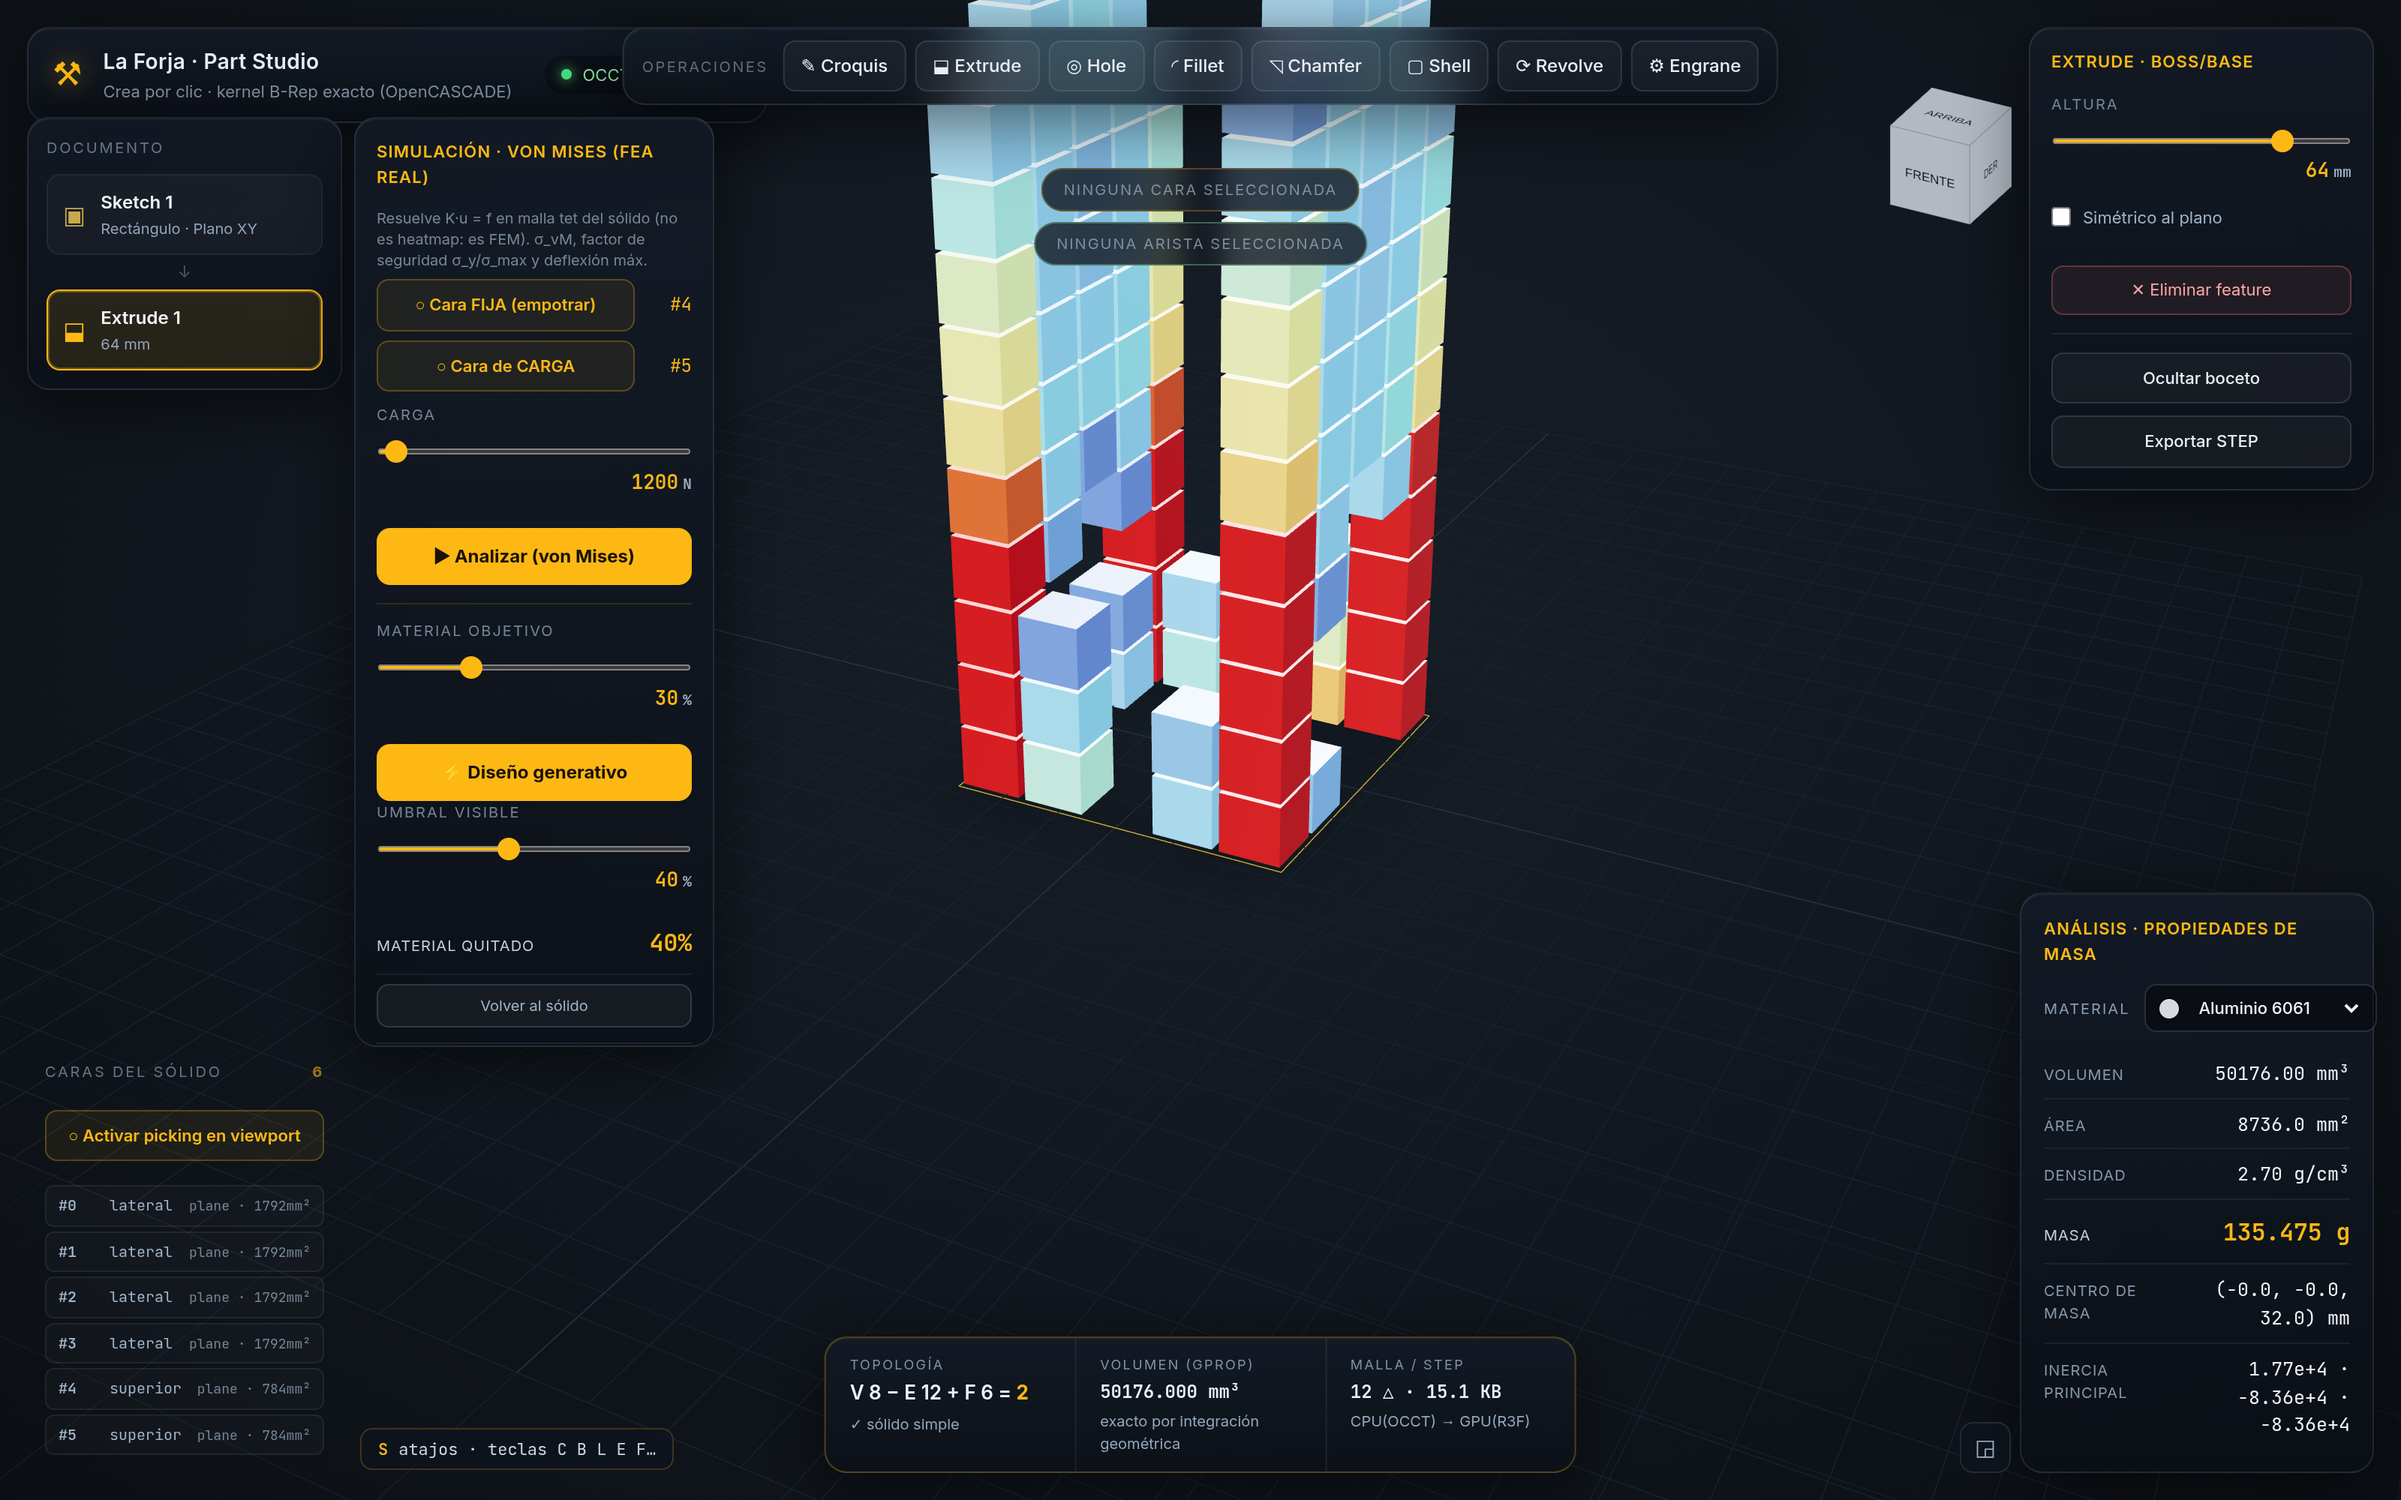
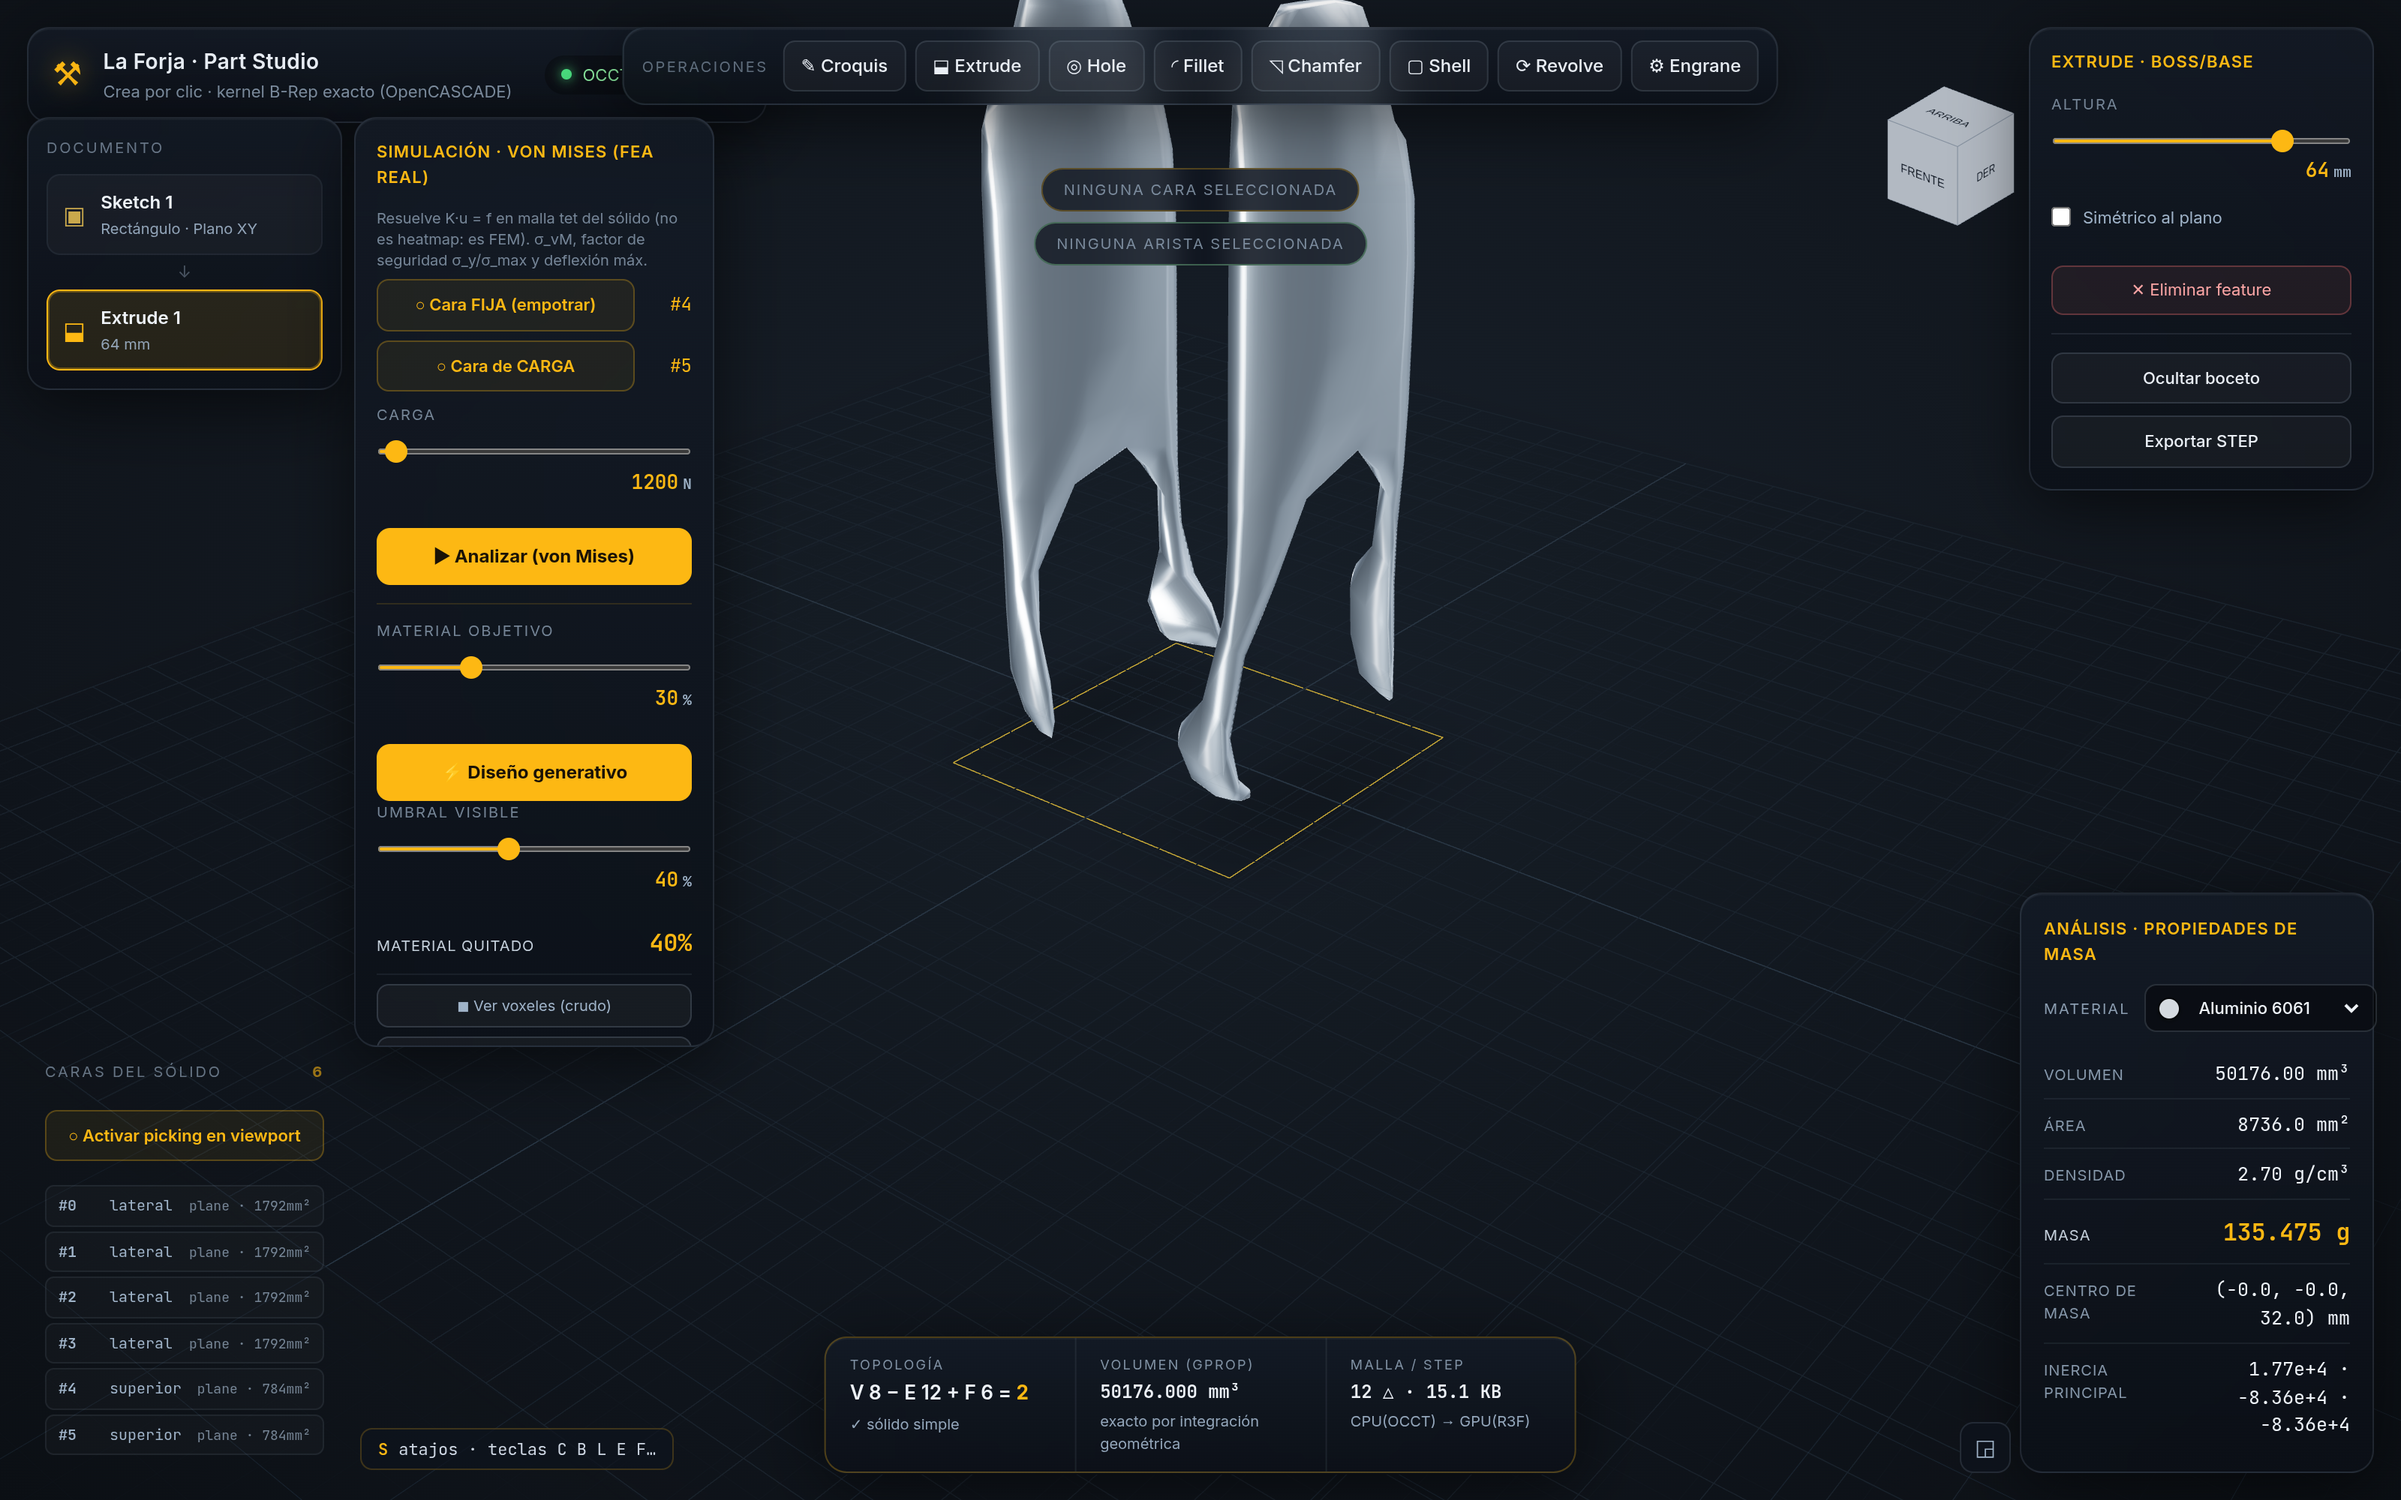
feat(forja): generativo SUAVE — superficie orgánica (no bloques), vendible + exportable
El fundador: "en bloques no se vende". Cierto — eran los voxeles crudos. Ahora densityToMesh
(topopt.ts) extrae la malla de FRONTERA del blob de densidad (caras sólido↔vacío, vértices
soldados) y la SUAVIZA con Laplaciano (λ=0.5, 6 pasadas) → forma ORGÁNICA manufacturable.
Render GenerativeSurface (meshStandardMaterial metal, normales suaves). Toggle "Suave/Voxeles"
(default suave). El motor/física no cambia, solo la representación de salida.

Verificado en la UI (generative-ui-shot.cjs, GPU RTX) — 3 piezas suaves, 0 errores:
ménsula = arco fluido, columna = dos piernas orgánicas, voladizo = viga afinada. Ya se ve
como Fusion. Imágenes actualizadas en forja-shots/generativo-*.png.

Changed region(s): [[0.375, 0.0, 0.625, 0.589], [0.7812, 0.062, 0.8438, 0.124], [0.1875, 0.651, 0.25, 0.682]]

diff --git a/src/forja/brep/topopt.ts b/src/forja/brep/topopt.ts
@@ -248,3 +248,77 @@ export function runTopOpt(
 
   return { xPhys, compliance, history, mesh, cells, nCells: N };
 }
+
+// ─────────────────────────────────────────────────────────────────
+// Salida SUAVE: campo de densidad → superficie ORGÁNICA (no bloques)
+// ─────────────────────────────────────────────────────────────────
+// Lo que Fusion muestra liso, no en cubos. Extraemos la malla de FRONTERA del
+// blob de voxeles sólidos (caras entre sólido y vacío, vértices soldados) y la
+// SUAVIZAMOS con Laplaciano → forma orgánica manufacturable. El motor (la física)
+// no cambia; solo la representación de salida.
+export function densityToMesh(
+  result: TopOptResult, iso = 0.5, smoothPasses = 6,
+): { positions: Float32Array; indices: Uint32Array } {
+  const { mesh, cells, xPhys } = result;
+  const [ax, ay, az] = mesh.aabb.min;
+  const sizeX = mesh.aabb.max[0] - ax, sizeY = mesh.aabb.max[1] - ay, sizeZ = mesh.aabb.max[2] - az;
+  const v = mesh.voxel;
+  const nx = Math.max(1, Math.round(sizeX / v)), ny = Math.max(1, Math.round(sizeY / v)), nz = Math.max(1, Math.round(sizeZ / v));
+  const hx = sizeX / nx, hy = sizeY / ny, hz = sizeZ / nz;
+  const vIdx = (i: number, j: number, k: number) => i + nx * (j + ny * k);
+  // voxeles sólidos (densidad ≥ iso)
+  const solid = new Set<number>();
+  for (let e = 0; e < cells.length; e++) {
+    if (xPhys[e] < iso) continue;
+    const c = cells[e];
+    const i = Math.min(nx - 1, Math.max(0, Math.round((c.cx - ax) / hx - 0.5)));
+    const j = Math.min(ny - 1, Math.max(0, Math.round((c.cy - ay) / hy - 0.5)));
+    const k = Math.min(nz - 1, Math.max(0, Math.round((c.cz - az) / hz - 0.5)));
+    solid.add(vIdx(i, j, k));
+  }
+  // nodos de esquina soldados
+  const gnx = nx + 1, gny = ny + 1;
+  const cIdx = (i: number, j: number, k: number) => i + gnx * (j + gny * k);
+  const nodeMap = new Map<number, number>();
+  const pos: number[] = [];
+  const node = (i: number, j: number, k: number) => {
+    const g = cIdx(i, j, k); let n = nodeMap.get(g);
+    if (n === undefined) { n = pos.length / 3; nodeMap.set(g, n); pos.push(ax + i * hx, ay + j * hy, az + k * hz); }
+    return n;
+  };
+  const tris: number[] = [];
+  const quad = (a: number, b: number, c: number, d: number) => { tris.push(a, b, c, a, c, d); };
+  const has = (i: number, j: number, k: number) => i >= 0 && j >= 0 && k >= 0 && i < nx && j < ny && k < nz && solid.has(vIdx(i, j, k));
+  for (const key of solid) {
+    const i = key % nx, j = Math.floor(key / nx) % ny, k = Math.floor(key / (nx * ny));
+    if (!has(i + 1, j, k)) quad(node(i + 1, j, k), node(i + 1, j + 1, k), node(i + 1, j + 1, k + 1), node(i + 1, j, k + 1));      // +X
+    if (!has(i - 1, j, k)) quad(node(i, j, k), node(i, j, k + 1), node(i, j + 1, k + 1), node(i, j + 1, k));                      // −X
+    if (!has(i, j + 1, k)) quad(node(i, j + 1, k), node(i, j + 1, k + 1), node(i + 1, j + 1, k + 1), node(i + 1, j + 1, k));      // +Y
+    if (!has(i, j - 1, k)) quad(node(i, j, k), node(i + 1, j, k), node(i + 1, j, k + 1), node(i, j, k + 1));                      // −Y
+    if (!has(i, j, k + 1)) quad(node(i, j, k + 1), node(i + 1, j, k + 1), node(i + 1, j + 1, k + 1), node(i, j + 1, k + 1));      // +Z
+    if (!has(i, j, k - 1)) quad(node(i, j, k), node(i, j + 1, k), node(i + 1, j + 1, k), node(i + 1, j, k));                      // −Z
+  }
+  const nV = pos.length / 3;
+  // adyacencia para Laplaciano
+  const adj: Set<number>[] = Array.from({ length: nV }, () => new Set<number>());
+  for (let t = 0; t < tris.length; t += 3) {
+    const a = tris[t], b = tris[t + 1], c = tris[t + 2];
+    adj[a].add(b); adj[a].add(c); adj[b].add(a); adj[b].add(c); adj[c].add(a); adj[c].add(b);
+  }
+  // suavizado Laplaciano (λ=0.5) → redondea los bloques a orgánico
+  let P = new Float64Array(pos);
+  for (let pass = 0; pass < smoothPasses; pass++) {
+    const Q = new Float64Array(P);
+    for (let n = 0; n < nV; n++) {
+      const nb = adj[n]; if (nb.size === 0) continue;
+      let sx = 0, sy = 0, sz = 0;
+      for (const m of nb) { sx += P[m * 3]; sy += P[m * 3 + 1]; sz += P[m * 3 + 2]; }
+      const inv = 1 / nb.size, l = 0.5;
+      Q[n * 3] = P[n * 3] + l * (sx * inv - P[n * 3]);
+      Q[n * 3 + 1] = P[n * 3 + 1] + l * (sy * inv - P[n * 3 + 1]);
+      Q[n * 3 + 2] = P[n * 3 + 2] + l * (sz * inv - P[n * 3 + 2]);
+    }
+    P = Q;
+  }
+  return { positions: Float32Array.from(P), indices: Uint32Array.from(tris) };
+}

diff --git a/src/forja/brep/ForgeBRepStudio.tsx b/src/forja/brep/ForgeBRepStudio.tsx
@@ -79,7 +79,7 @@ import {
   type FaceBC,
   type FEASession,
 } from './fea';
-import { runTopOpt, type TopOptResult } from './topopt';
+import { runTopOpt, densityToMesh, type TopOptResult } from './topopt';
 import { MATERIAL_DATABASE } from '../../lib/formulas';
 
 // Ejes GLOBALES preestablecidos para el revolve (gp_Ax1 deterministas).
@@ -1210,6 +1210,27 @@ function GenerativeVoxels({ result, threshold }: { result: TopOptResult; thresho
   );
 }
 
+// Superficie SUAVE del resultado generativo (orgánica, manufacturable — NO bloques).
+// densityToMesh extrae la frontera del blob y la suaviza (Laplaciano). Esto es lo que
+// hace que se vea como Fusion y se pueda vender / exportar a STL.
+function GenerativeSurface({ result, threshold }: { result: TopOptResult; threshold: number }) {
+  const geom = useMemo(() => {
+    const { positions, indices } = densityToMesh(result, threshold, 6);
+    const g = new THREE.BufferGeometry();
+    g.setAttribute('position', new THREE.BufferAttribute(positions, 3));
+    g.setIndex(new THREE.BufferAttribute(indices, 1));
+    g.computeVertexNormals();
+    g.computeBoundingSphere();
+    return g;
+  }, [result, threshold]);
+  useEffect(() => () => geom.dispose(), [geom]);
+  return (
+    <mesh geometry={geom} castShadow receiveShadow>
+      <meshStandardMaterial color="#cfd6df" metalness={0.85} roughness={0.32} envMapIntensity={1.2} side={THREE.DoubleSide} />
+    </mesh>
+  );
+}
+
 function ProfileGhost({ pts }: { pts: Pt2[] }) {
   const geo = useMemo(() => {
     const g = new THREE.BufferGeometry();
@@ -1506,6 +1527,7 @@ export default function ForgeBRepStudio() {
   const [genErr, setGenErr] = useState<string | null>(null);
   const [genVolfrac, setGenVolfrac] = useState(0.4);   // fracción de material objetivo
   const [genThreshold, setGenThreshold] = useState(0.4); // umbral de densidad visible
+  const [genSmooth, setGenSmooth] = useState(true);      // superficie suave (orgánica) vs voxeles crudos
   // Picking de cara/arista pero dirigido al panel FEA (no a la op activa).
   const feaPickTargetRef = useRef<'fija' | 'carga' | null>(null);
   feaPickTargetRef.current = feaPickTarget;
@@ -2272,7 +2294,9 @@ export default function ForgeBRepStudio() {
             {showSketch && <SketchPlane />}
             {showSketch && <ProfileGhost pts={profilePts} />}
             {genResult ? (
-              <GenerativeVoxels result={genResult} threshold={genThreshold} />
+              genSmooth
+                ? <GenerativeSurface result={genResult} threshold={genThreshold} />
+                : <GenerativeVoxels result={genResult} threshold={genThreshold} />
             ) : result && (
               <SolidMesh
                 mesh={result.mesh}
@@ -2994,6 +3018,9 @@ export default function ForgeBRepStudio() {
                     <span className="rk">Material quitado</span>
                     <span className="rv" data-testid="gen-void">{Math.round(genVoidPct)}%</span>
                   </div>
+                  <button className="fb-sim-clear" data-testid="btn-gen-smooth" onClick={() => setGenSmooth((s) => !s)}>
+                    {genSmooth ? '◼ Ver voxeles (crudo)' : '⬭ Ver superficie suave'}
+                  </button>
                   <button className="fb-sim-clear" data-testid="btn-gen-clear" onClick={clearGenerative}>
                     Volver al sólido
                   </button>
